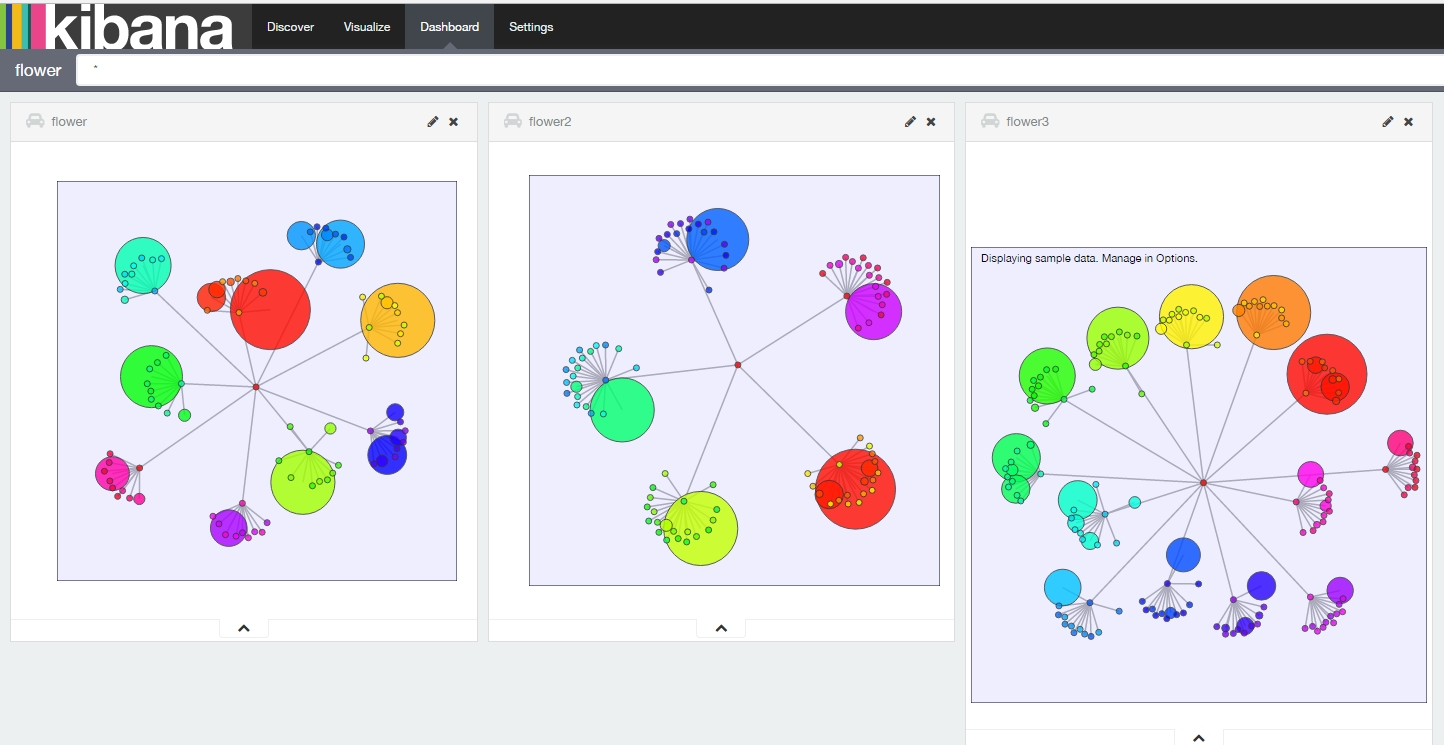
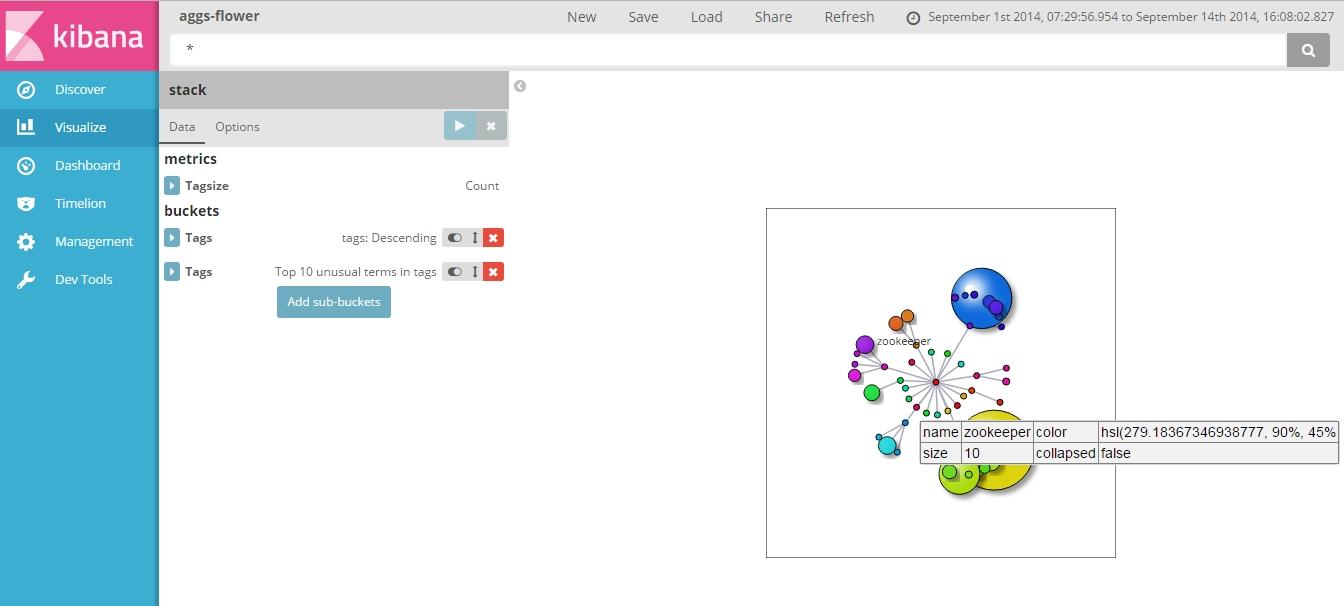
added context menu, collapsing nodes, node info and fixed few bugs, Kibana 5.00 version

diff --git a/public/lib/vis_flower.js b/public/lib/vis_flower.js
@@ -7,7 +7,7 @@ define(function (require) {
         // if only one type can be instatiated, allow for only one vis handle to be stored and assigned
         var visFlower;
         var visOther;
-        var d3 = require('d3v4');
+        var d3 = require("d3v4");
         
         this.createVis = function(type, init) {
             
@@ -54,6 +54,7 @@ define(function (require) {
             };
             
             this.render = function () {
+                                
                 // calculate the svg size
                 w = parseInt(Math.sqrt(newJson.total) * locParams.fsize, 10);
                 if (w < 300) w = 300;
@@ -76,26 +77,28 @@ define(function (require) {
                     // cleanup up previous elements
                     svg.selectAll("rect").remove();
                     svg
-                        .attr('width', w)
-                        .attr('height', h)
-                        .attr('style',"display: block; margin: auto")
-                        .call(d3.zoom().scaleExtent([1 / 2, 8]).on("zoom", zoomed)) // activate zooming, currently does not work (even propagation!)
-                            .attr("transform", "translate(0,0)");
+                        .attr("width", w)
+                        .attr("height", h)
+                        .attr("style","display: block; margin: auto");
+                        //.call(d3.zoom().scaleExtent([1 / 2, 8]).on("zoom", zoomed)) // activate zooming, currently does not work (even propagation!)
+                          //  .attr("transform", "translate(0,0)");
                 // draw a border
                     svg.append("svg:rect")
                         .style("stroke", "#003")
                         .style("fill", "#eef")
                         .style("fill-opacity", "0.0")
-                        .attr('width', w)
-                        .attr('height', h);
+                        .attr("width", w)
+                        .attr("height", h)
+                        .on("click", rectClick);   // close node context meny, if any
                 }   else {
                     svg.selectAll("text").remove();
                     svg
-                        .attr('width', w)
-                        .attr('height', h);
+                        .attr("width", w)
+                        .attr("height", h);
                     svg.select("rect")
-                        .attr('width', w)
-                        .attr('height', h);                    
+                        .attr("width", w)
+                        .attr("height", h)
+                        .on("click", rectClick);   // close node context meny, if any
                 }
                 
                 // display sample data text
@@ -129,7 +132,7 @@ define(function (require) {
                   .style("stroke", "#aab");
                 // Update the nodes
                 svg.selectAll(".node").remove();
-				svg.selectAll(".nodesphere").remove();
+                svg.selectAll(".nodesphere").remove();
                 nodeSvg = svg.selectAll(".node").data(nodes);//, function(d) { return d.id; })
                 //nodeSvg.exit().remove();
                 // Enter any new nodes
@@ -138,27 +141,28 @@ define(function (require) {
                         .on("start", dragstarted)   // raise the node, restart simulation 
                         .on("drag", dragged)        // 
                         .on("end", dragended))      // 
-                    //.on("click", click)
                     .on("mouseover", mouseover) // show text
                     .on("mouseout", mouseout)   // hide text
-                    .on("dblclick", dblclick);  // lower node
+                    .on("dblclick", dblclick)   // lower node
+                    .on("contextmenu", contextmenu);    // right click menu
+
                 // draw nodes
                 nodeSvg.append("circle")
                     .attr("class", "node")
-        //          .classed("collapsed", function(d) { return d.data.collapsed ? true : false; }) // adds collapsed class if param exists, currently class not defined
+                    .classed("collapsed", function(d) { return d.data.collapsed ? true : false; }) // adds collapsed class, do not set collapsed in data!
                     .classed("filtered-shadow", function(d) { return d.data.size * sizeScale > 6 ? true : false;}) // classing and attr(class) sequence is important. shadow only above 6 size
-                    .attr("r", function(d) { return Math.max(locParams.minNodeSize, d.data.size * sizeScale);})
-                    .style("fill", function color(d) { return "hsl(" + (360/newJson.total)*d.data.id + ", " + locParams.hsld;}); // color is evenly distributed between all nodes by id
+                    .attr("r", function(d) { return d.data.collapsed ? 3 : Math.max(locParams.minNodeSize, d.data.size * sizeScale);})
+                    .style("fill", function color(d) { return d.data.color = "hsl(" + (360/newJson.total)*d.data.id + ", " + locParams.hsld;}); // color is computed and evenly distributed between all nodes by id
                 nodeSvg.append("circle")    // the sphere effect is added by a white smaller circle that is first offset here and then blurred in a filter
                     .attr("class", "nodesphere")
                     .classed("filtered-blur", true) // will be blured in filter by browser
-                    .attr("r", function(d) { return d.data.size * sizeScale * 0.45;})   // reduce diameter
+                    .attr("r", function(d) { return d.data.collapsed ? 0 : d.data.size * sizeScale * 0.45;})   // reduce diameter
                     .attr("cx", function(d) { return -d.data.size * sizeScale * 0.3;})  // offset centre
                     .attr("cy", function(d) { return -d.data.size * sizeScale * 0.3;})  // offset centre
                     .style("fill", "#fff"); // white color     
                 nodeSvg.append("circle")    // the sphere effect circle is added as white smaller circle
                     .attr("class", "nodesphere")
-                    .attr("r", function(d) { return d.data.size * sizeScale  > 15 ? d.data.size * sizeScale * d.data.size * sizeScale * 0.005 : 0;})   // reduce diameter
+                    .attr("r", function(d) { return d.data.collapsed ? 0 : (d.data.size * sizeScale  > 15 ? d.data.size * sizeScale * d.data.size * sizeScale * 0.005 : 0);})   // reduce diameter
                     .attr("cx", function(d) { return -d.data.size * sizeScale * 0.4;})  // offset centre
                     .attr("cy", function(d) { return -d.data.size * sizeScale * 0.3;})  // offset centre
                     .style("fill", "#fff"); // white color
@@ -168,7 +172,7 @@ define(function (require) {
                 nodeSvg.append("text")
                         .attr("dx", 12)
                         .attr("dy", 0)
-                        .style('display', 'none')
+                        .style("display", "none")
                         .text(function(d) { return d.data.name;});
                 
             };// end of render()
@@ -251,16 +255,98 @@ define(function (require) {
             // displays node text
             mouseover = function (d) {
                 if (locParams.alltext)  {
-                    svg.selectAll("text").style('display', 'block');
+                    svg.selectAll("text").style("display", "block");
                 }   else {
-                    d3.select(this).selectAll("text").style('display', 'block');
+                    d3.select(this).selectAll("text").style("display", "block");
                 }
             };
 
             // hide node text
             mouseout = function (d) {
-                d3.selectAll("text").style('display', 'none');
-                //d3.select(this).selectAll("text").style('display', 'none');
+                d3.selectAll("text").style("display", "none");
+                //d3.select(this).selectAll("text").style("display", "none");
+            };
+            
+            rectClick = function(d)    {
+                d3.selectAll(".context-menu").remove(); // close menu and other boxes
+                d3.selectAll(".node-info").remove(); // close menu and other boxes
+            };
+
+            contextmenu = function(d) {
+                var mOptions = ["Collapse Node", "Expand Node", "Node Information", "Hide Node - tbd"];
+
+                // grab the g element for later
+                var g = d3.select(this);
+                var node = g.select(".node"); // selects first node
+                var nodesphere = g.selectAll(".nodesphere");
+                nodes.length;
+
+                // create the div element that will hold the context menu
+                d3.selectAll(".context-menu").data([1])
+                    .enter()
+                    .append("div")
+                    .attr("class", "context-menu");
+                d3.selectAll(".node-info").data([1])
+                    .enter()
+                    .append("div")
+                    .attr("class", "node-info");
+                d3.select(".node-info").style("display", "none"); // close node info on the next click
+                // this gets executed when a contextmenu event occurs
+                d3.selectAll(".context-menu")
+                    .html("")
+                    .append("ul")
+                    .selectAll("li")
+                        .data(mOptions).enter()
+                        .append("li")
+                    .on("click" , function(dd) {
+                        var index = g._groups[0][0].__data__.index;
+                        // process returned line item text
+                        if (dd === mOptions[0])  {    // collapse                                
+                            d3.select(".context-menu").style("display", "none"); // close menu                            
+                            nodes[index].data.collapsed = true;
+                            node.classed("collapsed", true);
+                            nodesphere.classed("collapsed", true);
+                        } else if (dd === mOptions[1])  {    // Fix/Release
+                            d3.select(".context-menu").style("display", "none"); // close menu
+                            nodes[index].data.collapsed = false;
+                            node.classed("collapsed", false);
+                            nodesphere.classed("collapsed", false);                    
+                        } else if (dd === mOptions[2])  {    // info
+                            d3.select(".context-menu").style("display", "none"); // close menu
+                            var matrix = [
+                                [ "name", nodes[index].data.name,  "color", nodes[index].data.color],
+                                [ "size", nodes[index].data.size, "collapsed", nodes[index].data.collapsed]
+                              ];
+
+                            var tr = d3.selectAll(".node-info").data([1])
+                                .html("")
+                                .append("table")
+                                .selectAll("tr")
+                                .data(matrix)
+                                .enter().append("tr");
+
+                            var td = tr.selectAll("td")
+                                .data(function(d) { return d; })
+                                .enter().append("td")
+                                .text(function(d) { return d; });
+
+                            d3.select(".node-info")
+                                .style("left", (d3.event.pageX - 2) + "px")
+                                .style("top", (d3.event.pageY - 2) + "px")
+                                .style("display", "block");                
+                        } else if (dd === mOptions[3])  {    // Hide                                
+                            d3.select(".context-menu").style("display", "none"); // close menu
+                        }
+                        return dd; 
+                    })
+                .text(function(dd) { return dd; }); // return selected line item text
+
+                // show the context menu
+                d3.select(".context-menu")
+                  .style("left", (d3.event.pageX - 2) + "px")
+                  .style("top", (d3.event.pageY - 2) + "px")
+                  .style("display", "block");
+                d3.event.preventDefault(); // disable default right click
             };
 
             finished = function (d) {

diff --git a/public/lib/data_converter.js b/public/lib/data_converter.js
@@ -25,6 +25,7 @@ define(function (require) {
             newJson.name = "center";
             newJson.size = 3;
             newJson.id = id++;
+            newJson.collapsed = false;
             newJson.sizeScale = 1;
             newJson.total = 1;
             newJson.maxSize = newJson.size;
@@ -32,7 +33,7 @@ define(function (require) {
             var obk = Object.keys(children);    
 
             obk.forEach( function(key) {
-                var child = {"name":"default","children":[],"size":1};
+                var child = {"name":"default","children":[],"size":1, "collapsed": false};
                 if(children[key].hasOwnProperty('key')){
                     child.name = children[key].key;
                     if(children[key].hasOwnProperty('doc_count')){
@@ -45,7 +46,7 @@ define(function (require) {
                     var sigb = Object.keys(children[key][3].buckets);
 
                     sigb.forEach( function(skey) {
-                        var child2 = {"name":"default","size":1};
+                        var child2 = {"name":"default","size":1, "collapsed": false};
                         child2.name = children[key][3].buckets[skey].key;
                         child2.size = children[key][3].buckets[skey].doc_count;                
                         if (newJson.maxSize < child2.size) newJson.maxSize = child2.size;

diff --git a/public/aggs-flower.less b/public/aggs-flower.less
@@ -44,17 +44,6 @@ circle {
         opacity: 1;
 }
 
-/*
-circle.parent {
-	fill: #1f77b4;
-	fill-opacity: .4;
-	stroke: steelblue;
-	opacity: 0.4;
-	stroke-width: 2;
-	stroke-dasharray: 5 3;
-}
-*/
-
 circle:hover {
   opacity: 1;
   stroke-width: 2px;
@@ -89,7 +78,12 @@ circle.node.directory {
 }
 
 circle.node.collapsed {
-  stroke: #555;
+  stroke: #f55;
+  r: 3;
+}
+
+circle.nodesphere.collapsed {
+  r: 0;
 }
 
 .nodetext {
@@ -102,4 +96,42 @@ line.link {
   fill: none;
   stroke: #9ecae1;
   stroke-width: 1.5px;
+}
+
+.context-menu,
+.node-info {
+  position: absolute;
+  display: none;
+  background-color: #f2f2f2;
+  border-radius: 4px;
+  font-family: Arial, sans-serif;
+  font-size: 14px;
+  min-width: 150px;
+  border: 1px solid #d4d4d4;
+  z-index:1200;
+}
+
+table {
+    border-collapse: collapse;
+}
+
+table, td {
+    border: 1px solid gray;
+    padding: 2px;
+}
+
+.context-menu ul {
+  list-style-type: none;
+  margin: 4px 0px;
+  padding: 0px;
+  cursor: default;
+}
+
+.context-menu ul li {
+  padding: 4px 16px;
+}
+
+.context-menu ul li:hover {
+  background-color: #4677f8;
+  color: #fefefe;
 }

diff --git a/public/aggs-flower-controller.js b/public/aggs-flower-controller.js
@@ -14,7 +14,7 @@ define(function (require) {
         // create empty staging data. format:
         // name - displayed over the node, sizeScale - node size scaling for display, maxSize - largest data size,
         // size - data size, color - node color
-        // collapsed - collapsed node does not display its children and the size is the sum of the node and all node's children
+        // collapsed - collapsed node size is set to 3. TBD - hide children and rescale all the other nodes
         // total - total number of nodes, id - node id, log - use logarithmic scale to display node sizes
         var newJson = {"name":"","children":[],"size":0, "sizeScale": 1, "color":"hsl(0,90%,10%)","collapsed":false, "total":1, "maxSize":20.0, "id": 1, "log": false};        
         // can be used for initialising the controller, currently not in use

diff --git a/README.md b/README.md
@@ -1,10 +1,17 @@
 # Kibana forced simulation aggregation visualisation plugin
 
-Kibana visualisation plugin using d3 forced simulation
+Kibana visualisation plugin using d3 forced simulation. Major purpose of this plugin was to provide tools for other plugin developments. 
+This plugin therefore has some interesting features like context menu, filters, dynamic d3 behaviour, 3D effects, node repositioning, etc. while the query handling is pretty basic.
+Functionality:
+- double clicking moves a node to the background or up
+- right click brings menu up - can collapse a node or display node information
+- dragging node positions it it static location, you can release the node by another drag
+- plugin options allow for display modifications (note - still working on behaviour, currently need to press play button next to options and query refresh button for changes to fire up)
 
 ![alt tag](https://github.com/commsart/aggs-flower/raw/master/pics/plug1.jpg)
 ![alt tag](https://github.com/commsart/aggs-flower/raw/master/pics/plug2.jpg)
 ![alt tag](https://github.com/commsart/aggs-flower/raw/master/pics/plug3.jpg)
+![alt tag](https://github.com/commsart/aggs-flower/raw/master/pics/plug4.jpg)
 
 The plugin use the d3 latest library (v4) and thus will require installing it to Kibana. I have performed normal d3 installation in a separate folder and just moved it into d3v4 folder 
 (kibana-windows\node_modules\d3v4) and it worked fine. Will try to better understand node and require one day...
